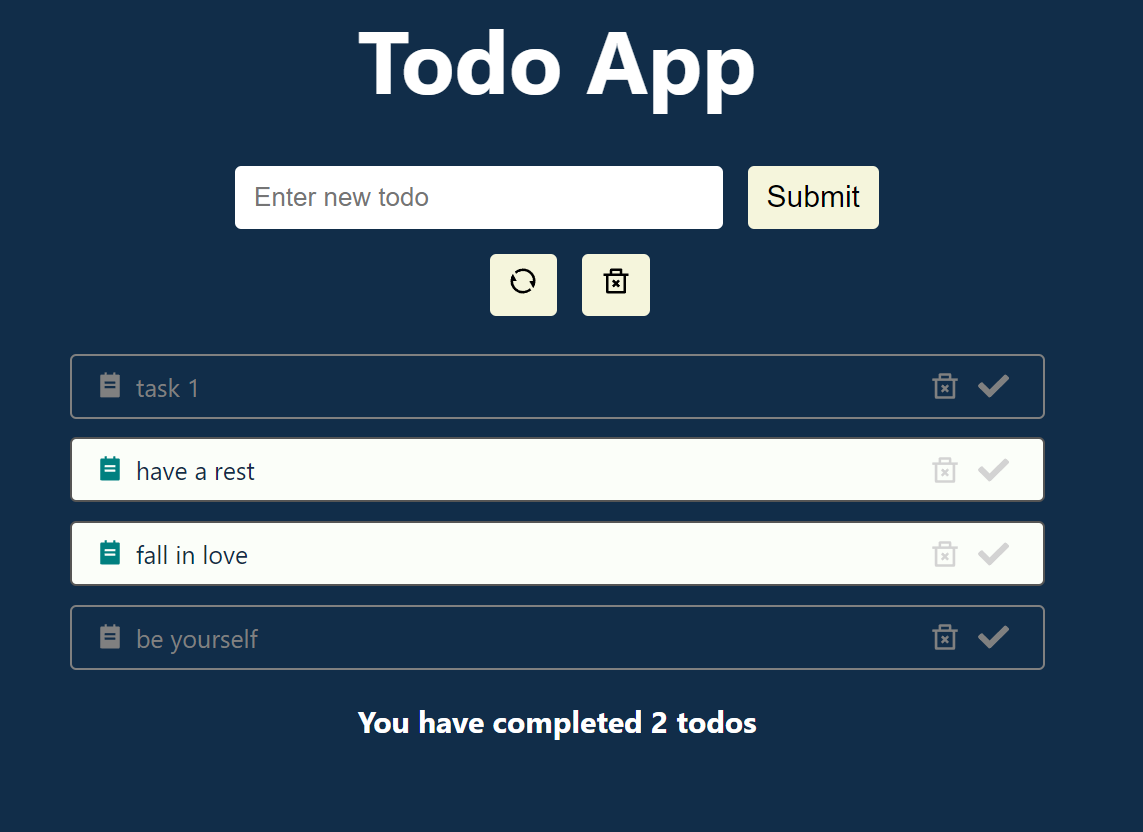
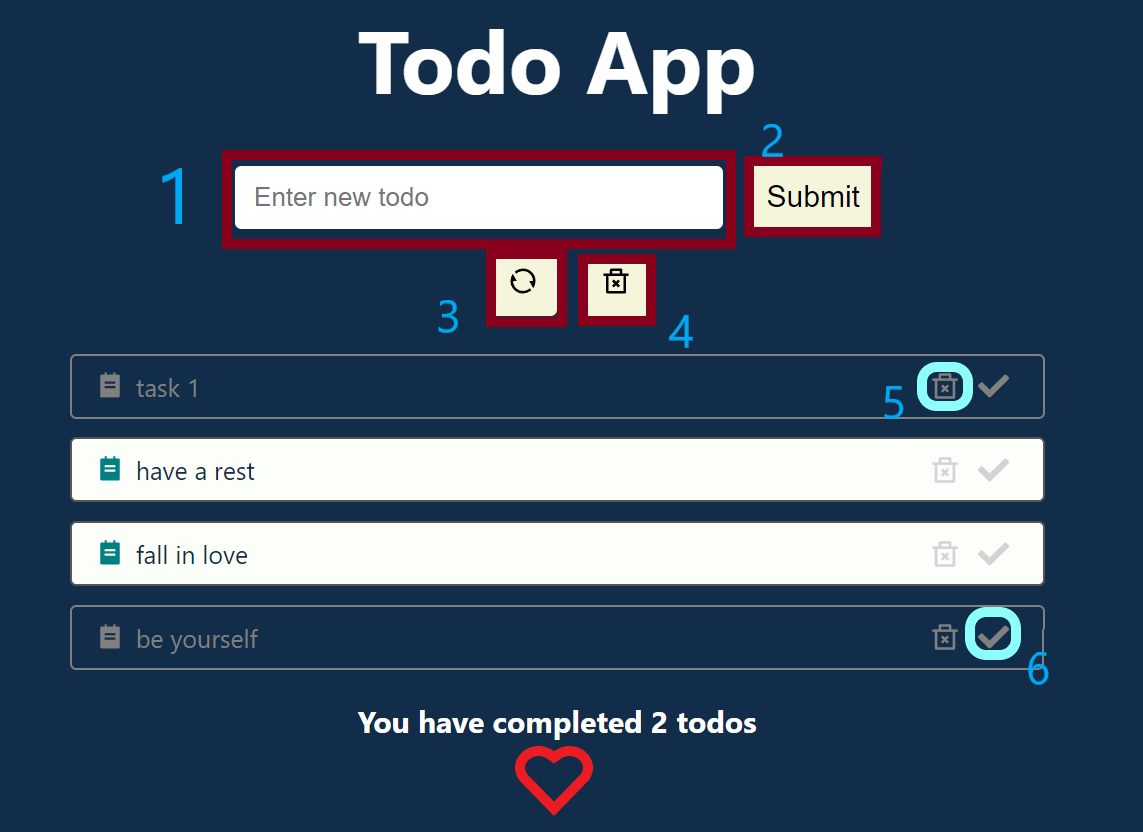
docs: edit docs

diff --git a/README.md b/README.md
@@ -8,7 +8,13 @@ This is my *vision* for the implementation of the *task of creating a ToDo App*.
 **********
 **What I've done**:question:
 
-*I will make it later...*
+Look at the app screenshot below. Let's look at the main components of the application:
+1. In the input line we enter the text of our new note.
+2. By clicking the *Submit* button(button №2), the note will be added to the note sheet.
+3. By clicking the *Reset* button(button №3), all notes will be deleted.
+4. By clicking the *Clear Completed Todos* button(button №4), all completed notes will be deleted.
+5. By clicking the *Delete* button(button №5), the selected note will be deleted.
+6. By clicking the *Done* button(button №6), the selected note will be marked as completed (if you press it again, the action will be canceled).
 **********
 **User guide**:paperclip:
 1. Download zip-archive with code and open it in *VSCode/WebStorm*.
